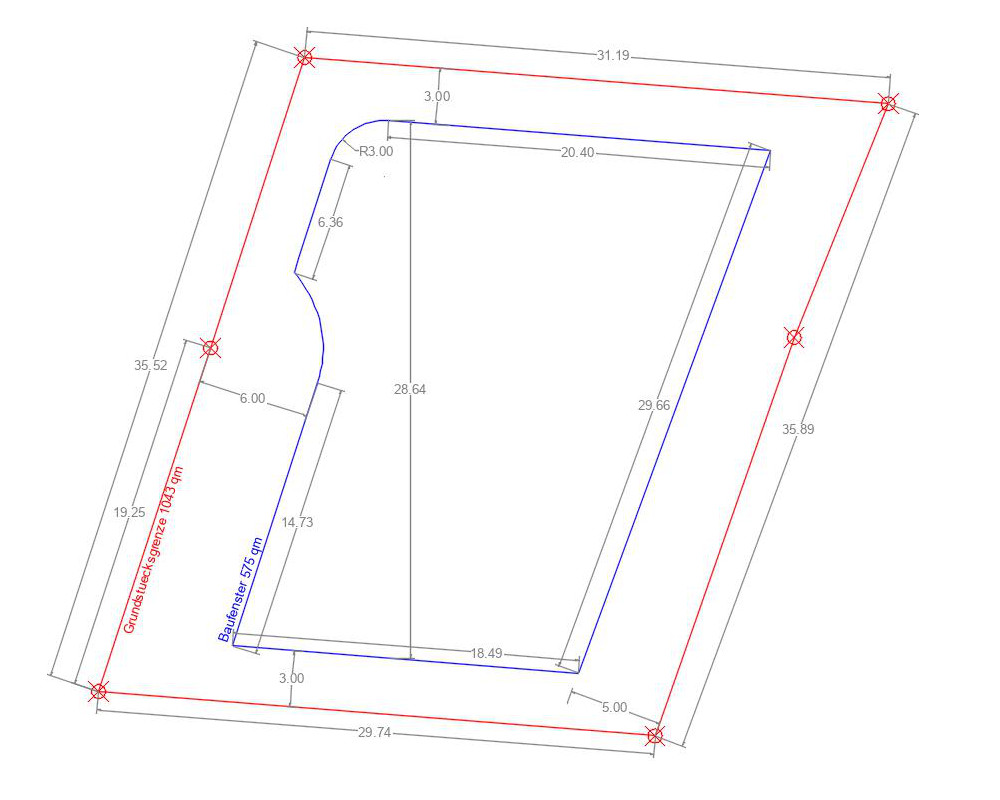
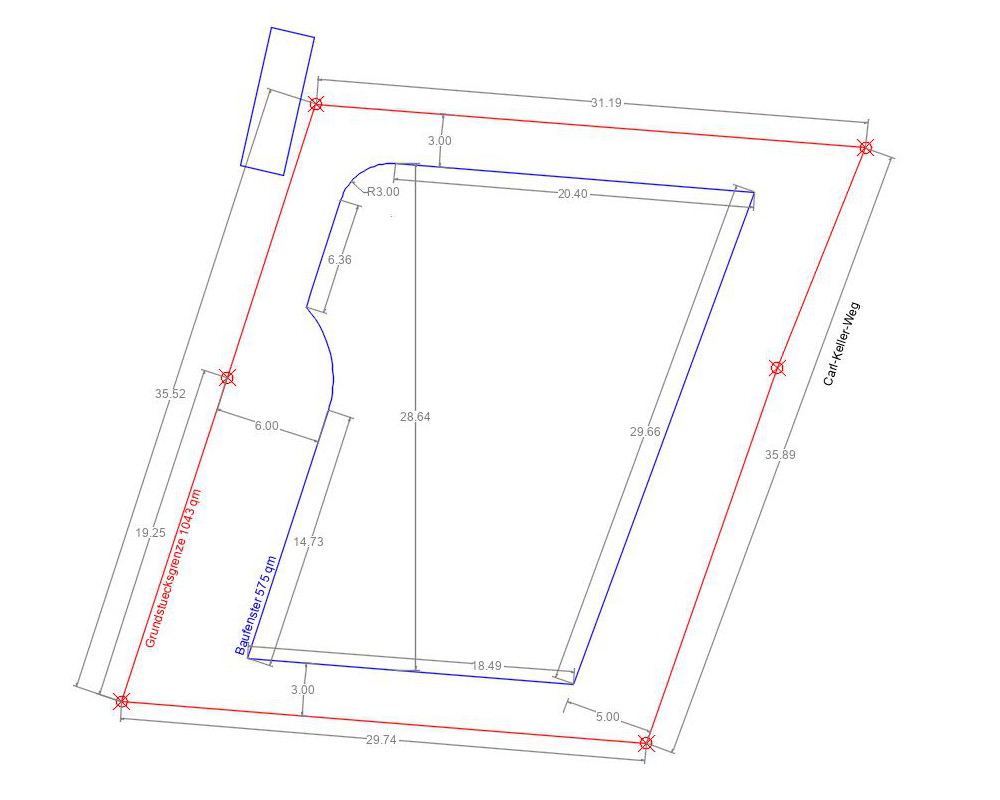
added michaels mobile home to baufenster sketch

diff --git a/index.md b/index.md
@@ -512,8 +512,9 @@ Das Baufenster innerhalb der Grundstuecksgrenzen ist im Bebauungsplan mit dicken
 <!-- (vgl. im Bebauungsplan mit 5 Abstand von der Strasse und 10 in dem Masstab). -->
 In der [folgenden Skizze](img/lageplan/flurstueck_3640_six_corner_points.jpg) sind
 ausserdem 3 m Abstand von den Nord- und Suedgrenzen vorgesehen.
-Die Abstaende an den Nord- und Suedgrenzen ergeben sich aus der 
-Entlang der Nordgrenze entsteht moeglicherweise ein Zufahrtsweg:
+Die Abstaende an den Nord- und Suedgrenzen werden laut Landesbauordnung LBO geregelt, minimal 0.4 mal Fassadenhoehe.
+Entlang der Nordgrenze entsteht moeglicherweise ein Zufahrtsweg.
+Das blaue Rechteck in der Nordwestecke auf dem Grundstueck vom Huenerbergweg 30 stellt Michaels Wohnmobil dar:
 
 <img src="img/lageplan/flurstueck_3640_six_corner_points.jpg" alt="Baufenster" title="Baufenster" width="600"/> <!-- 1000 -->
 
